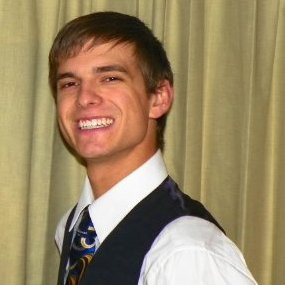
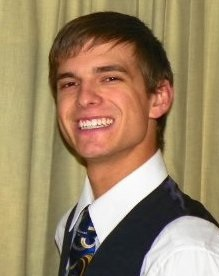
update

diff --git a/index.html b/index.html
@@ -126,6 +126,7 @@
         <div class="row">
           <div class="col-md-12">
             <div class="intro-text">
+			<div class="my-photo"><img src="./images/kk.jpg"></div>
               <h1 class="title">I'm Kam</h1>
               <h2 class="subtitle">I enjoy electronics of all sizes, coding, and the combination of the two.
 			 </a></h2>
@@ -143,10 +144,14 @@
         <div class="row">
           <div class="col-xs-6 col-md-4 project-box"><a href="https://github.com/KamKranse/EELE475">
               <div class="image"><img src="./images/msu.png"></div>
-              <h3 class="title">EELE 475</h3></a></div>
+              <h3 class="title">EELE 475 - Embedded Systems</h3></a></div>
+			
+			
           <div class="col-xs-6 col-md-4 project-box"><a href="http://www.ece.montana.edu/seniordesign/BeartoothRadio/index.html">
               <div class="image"><img src="./images/msu.png"></div>
-              <h3 class="title">Senior Capstone Project</h3></a></div>
+              <h3 class="title">Senior Capstone Project - Dual Band Radio Amplifier</h3></a></div>
+			  
+
 
         </div>
       </div>
@@ -158,11 +163,13 @@
         </div>
         <div class="row">
          
+		 
 		 <div class="col-xs-6 col-md-4 project-box"><a href="https://github.com/KamKranse/RocketCocks">
               <div class="image"><img src="./images/rocket.jpg"></div>
-              <h3 class="title">RocketCocks</h3></a></div>
+              <h3 class="title">RocketCocks - A Game Made For a 24 Hour Coding Contest</h3></a></div>
          
-        </div>
+        
+		</div>
       </div>
 
 	  
@@ -178,7 +185,7 @@
           </div>
           <div class="col-md-6">
             <div class="intro-text">
-              <p class="title">22 years old. <br> Graduate of Montana State University. <br> Computer Engineering.<br><br><br><br></p>
+              <p class="title">I was born and raised in Colorado and am currently on the search for a job in the Computer Engineering field anywhere in the US. <br><br> I Graduated from Montana State University in May of 2016 with a BS in Computer Engineering and love playing playing with electronics and coding in my spare time. <br><br> You can check out some of my projects above by clicking on them for more information, for less computer-inclined projects, you can check out my  <u><a href="http://www.instructables.com/member/kck17288/">instructables account.</a></u> <br></p>
             </div>
           </div>
         </div>
@@ -197,7 +204,7 @@
               <div class="follow-section">
                 <p class="title"><b>Find me on</b>
 				</p>
-								<a href="https://twitter.com/kckran" target="_blank" class="sc-link"><img src="./images/twitter.png" style="width:20%; height:20%"> </a>
+								<a href="https://twitter.com/kamkranse" target="_blank" class="sc-link"><img src="./images/twitter.png" style="width:20%; height:20%"> </a>
 				<a href="https://www.facebook.com/kameron.kranse" target="_blank" class="sc-link"><img src="./images/face.png" style="width:20%; height:20%"> </a>
 				<a href="https://www.linkedin.com/in/kamkranse" target="_blank" class="sc-link"><img src="./images/linked.png" style="width:20%; height:20%"> </a>
 				<a href="https://github.com/KamKranse" target="_blank" class="sc-link"><img src="./images/git.png" style="width:20%; height:20%"> </a>
